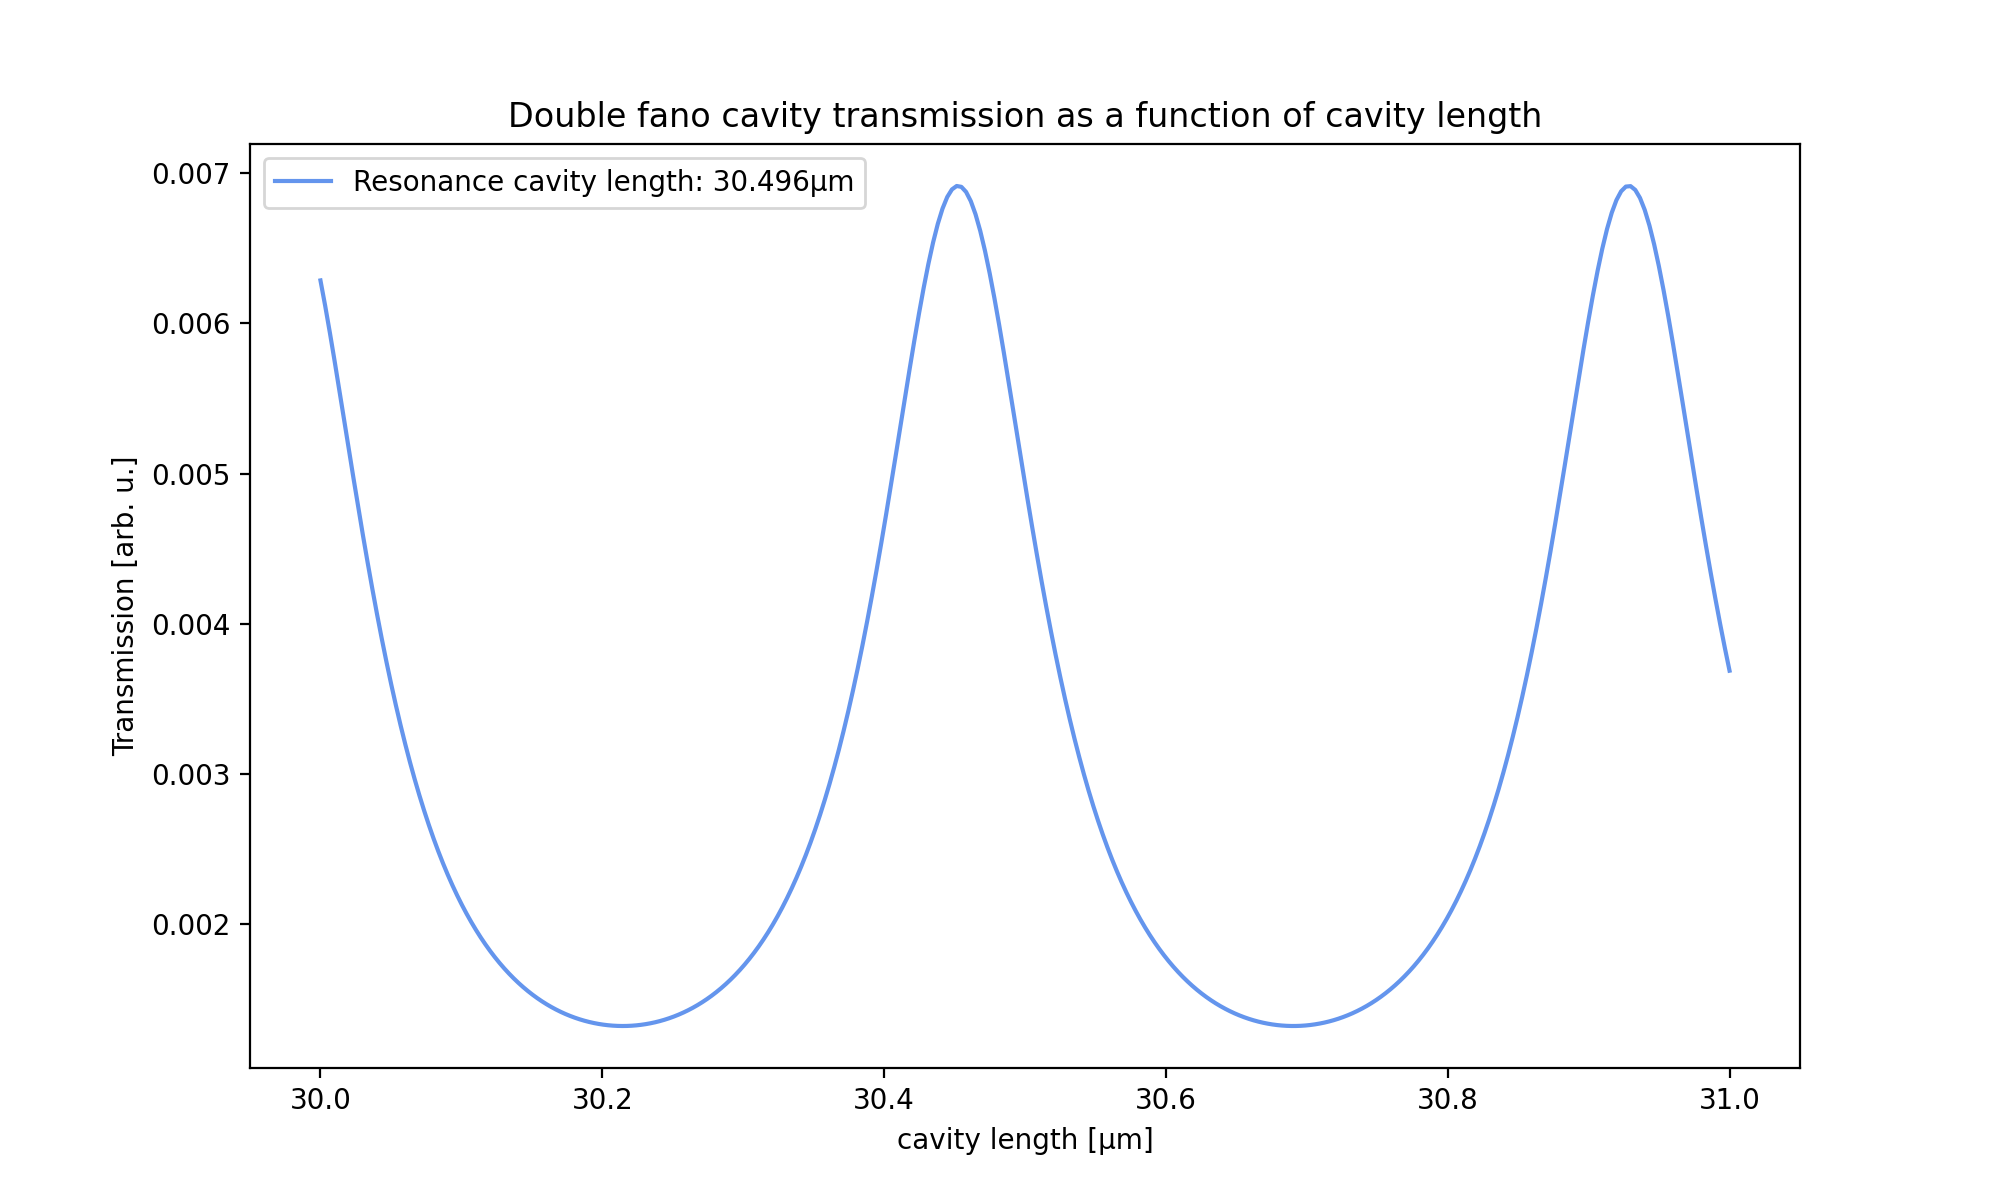
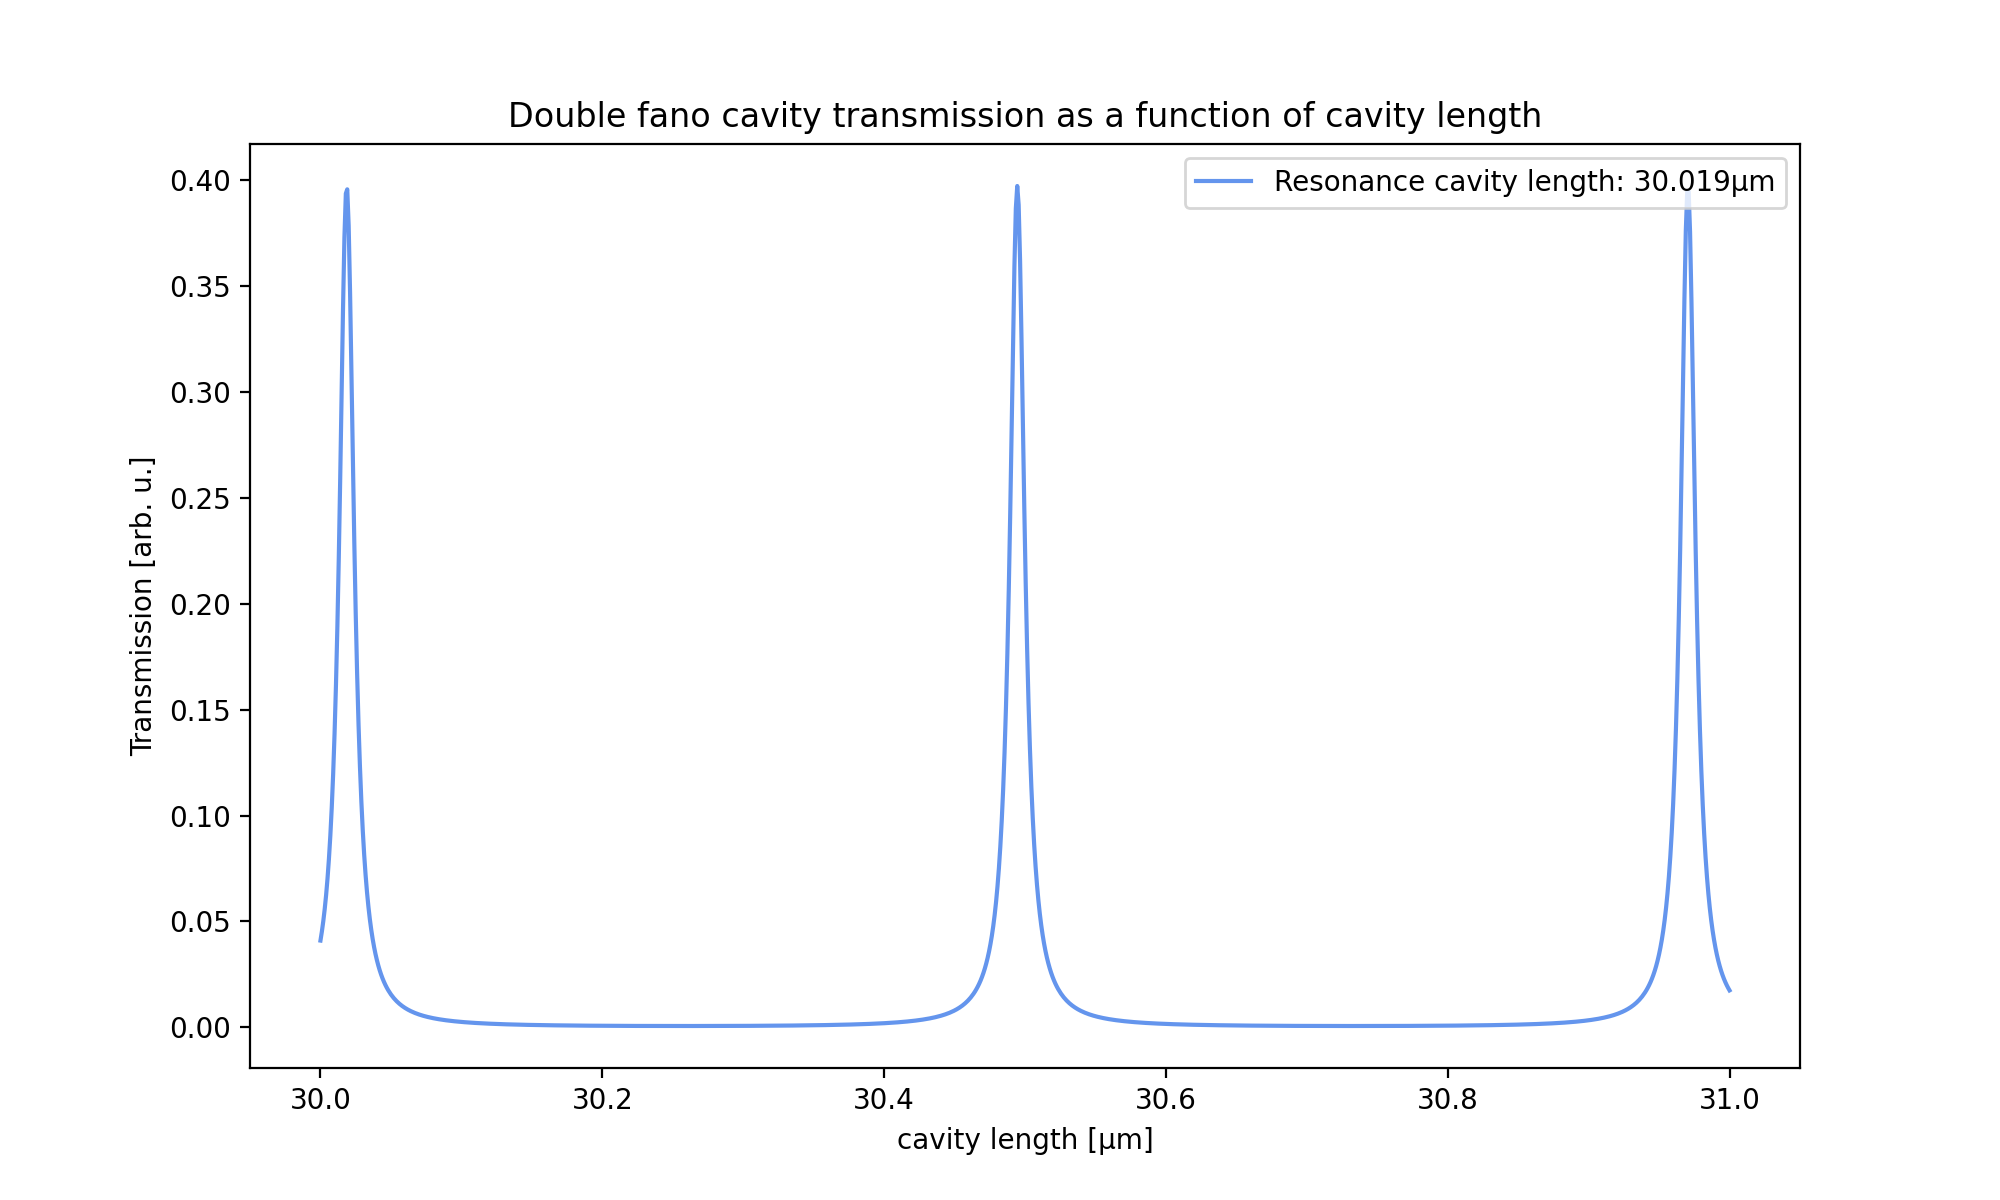
-

diff --git a/fano_theory.py b/fano_theory.py
@@ -23,9 +23,9 @@ params2 = M3.lossy_fit([952,952,0.6,1,0.1])
 # α  -> loss factor 
 
 #λs = np.linspace(951, 952.5, 500)
-λs = np.linspace(950.5, 953.5, 500)
+#λs = np.linspace(950.5, 953.5, 500)
 #λs = np.linspace(945, 960, 10000)
-#λs = np.linspace(951.6, 951.9, 200)
+λs = np.linspace(951.1, 952.4, 200)
 
 def model(λ, λ0, λ1, td, γλ, β): 
     k = 2*np.pi / λ
@@ -95,9 +95,9 @@ def theoretical_reflection_values_plot(params: list, λs: np.array):
     plt.legend(loc='upper center', bbox_to_anchor=(0.5, -0.05), fancybox=True, shadow=True, ncol=2)
     plt.show()
 
-def resonant_cavity_length(params: list, λs: np.array):
+def resonant_cavity_length(params: list, λs: np.array, lmin=50):
     reflection_values = theoretical_reflection_values(params, losses=True)[1]
-    transmission_values = model(λs, *params)
+    transmission_values = np.sqrt(model(λs, *params))
 
     reflection_values = [complex(r) for r in reflection_values]
     transmission_values = [complex(t) for t in transmission_values]
@@ -112,11 +112,10 @@ def resonant_cavity_length(params: list, λs: np.array):
     tm = np.sqrt(0.08)
     rm = np.sqrt(0.92)
 
-    lmin = 100
-    ls = np.linspace(lmin,lmin+1,100000)*1e3
+    ls = list(np.linspace(lmin,lmin+1,100000)*1e3)
 
     for l in ls:
-        λ = params[0]
+        λ = λs[idx]
         t = np.abs(tg*tm*np.exp(1j*(2*np.pi/λ)*l)/(1-rm*rg*np.exp(2j*(2*np.pi/λ)*l)))**2
         Ts.append(t)
 
@@ -125,14 +124,14 @@ def resonant_cavity_length(params: list, λs: np.array):
     for idx in peak_indices[0]:
         lengths.append(ls[idx])
 
-    if np.abs(Ts[ls.index(lengths[0])] - Ts[ls.index(lengths[1])]) > 1e6:
+    if np.abs(Ts[ls.index(lengths[0])] - Ts[ls.index(lengths[1])]) > 1e10:
         resonance_length = lengths[1]
     else:
         resonance_length = lengths[0]
 
     return resonance_length 
 
-def double_cavity_length(params1: list, params2: list, λs: np.array):
+def double_cavity_length(params1: list, params2: list, λs: np.array, lmin=50):
     r1 = theoretical_reflection_values(params1, losses=True)[1]
     r2 = theoretical_reflection_values(params2, losses=True)[1]
     t1 = np.sqrt(model(λs, *params1))
@@ -149,7 +148,6 @@ def double_cavity_length(params1: list, params2: list, λs: np.array):
     lengths = []
     Ts = []
 
-    lmin = 10
     ls = list(np.linspace(lmin,lmin+1,100000)*1e3)
 
     for l in ls:
@@ -162,21 +160,30 @@ def double_cavity_length(params1: list, params2: list, λs: np.array):
     for idx in peak_indices[0]:
         lengths.append(ls[idx])
 
-    if np.abs(Ts[ls.index(lengths[0])] - Ts[ls.index(lengths[1])]) > 1e6:
+    if np.abs(Ts[ls.index(lengths[0])] - Ts[ls.index(lengths[1])]) > 1e10:
         resonance_length = lengths[1]
     else:
         resonance_length = lengths[0]
 
     return resonance_length 
 
-def single_fano_length_scan(params: list, ls: np.array):
-    λ = np.array([params[0]])
+def single_fano_length_scan(params: list, ls: np.array, λs: np.array):
+    ts = [complex(t) for t in np.array(np.sqrt(model(λs, *params)))]
+    rs = [complex(r) for r in theoretical_reflection_values(params, losses=True)[1]]
+
+    idx = np.argmin(ts)
+    rg = rs[idx]
+    tg = ts[idx]
+    rm = np.sqrt(0.92)
+    tm = np.sqrt(0.08)
+
+    λ = np.array([λs[idx]])
     Ts = []
     for l in ls:
-        T = fano_cavity_transmission(params,l,λ)[0]
+        T = np.abs(tg*tm*np.exp(1j*(2*np.pi/λ)*l)/(1-rg*rm*np.exp(2j*(2*np.pi/λ)*l)))**2
         Ts.append(T)
 
-    resonance_length = resonant_cavity_length(params, λ)
+    resonance_length = resonant_cavity_length(params, λ, lmin=ls[0]*1e-3)
 
     plt.figure(figsize=(10,6))
     plt.title("Fano cavity transmission as a function of cavity length")
@@ -186,21 +193,31 @@ def single_fano_length_scan(params: list, ls: np.array):
     plt.legend(["Resonance cavity length: %sμm" % str(round(resonance_length*1e-3,3))])
     plt.show()
 
-def double_fano_length_scan(params1: list, params2: list, ls: np.array):
-    λ = np.array([params1[0]])
+def double_fano_length_scan(params1: list, params2: list, ls: np.array, λs: np.array):
+    t1 = [complex(t) for t in np.array(np.sqrt(model(λs, *params1)))]
+    t2 = [complex(t) for t in np.array(np.sqrt(model(λs, *params2)))]
+    r1 = [complex(r) for r in theoretical_reflection_values(params1, losses=True)[1]]
+    r2 = [complex(r) for r in theoretical_reflection_values(params2, losses=True)[1]]
+
+    idx = np.argmin(t1)
+
+    rg1 = r1[idx]; rg2 = r2[idx]
+    tg1 = t1[idx]; tg2 = t2[idx]
+
+    λ = np.array([λs[idx]])
     Ts = []
     for l in ls:
-        T = dual_fano_transmission(params1, params2, l, λ)
+        T = np.abs(tg1*tg2*np.exp(1j*(2*np.pi/λ)*l)/(1-rg1*rg2*np.exp(2j*(2*np.pi/λ)*l)))**2
         Ts.append(T)
     
-    resonance_length = double_cavity_length(params1, params2, λ)
+    resonance_length = double_cavity_length(params1, params2, λs, lmin=ls[0]*1e-3)*1e-3
 
     plt.figure(figsize=(10,6))
     plt.plot(ls*1e-3, Ts, "cornflowerblue")
     plt.title("Double fano cavity transmission as a function of cavity length")
     plt.xlabel("cavity length [μm]")
     plt.ylabel("Transmission [arb. u.]")
-    plt.legend(["Resonance cavity length: %sμm" % str(round(resonance_length*1e-3,3))]) 
+    plt.legend(["Resonance cavity length: %sμm" % str(round(resonance_length,3))]) 
     plt.show()
  
 def fano_cavity_transmission(params: list, length: np.array, λs: np.array, intracavity=False, losses=True):
@@ -290,24 +307,25 @@ def dual_fano_transmission_plot(params1: list, params2: list, length: float, λs
     ax.legend()
     plt.show()
 
-def detuning_plot(Δs: list, params: list, λs: np.array, intracavity=False, losses=True): ## plots dual fano cavity transmission for different values for the detuning
+def detuning_plot(Δs: list, params: list, λs: np.array, intracavity=False, losses=True, lmin=50): ## plots dual fano cavity transmission for different values for the detuning
     plt.figure(figsize=(10,6))
-    length = double_cavity_length(params, params, λs)
+    #length = double_cavity_length(params, params, λs, lmin=lmin)
     linestyles = ["-.", "--", "-", "--", "-."]
     colors = ["skyblue","royalblue","forestgreen", "firebrick", "lightcoral"]
     for Δ, paint, style in zip(Δs,colors,linestyles):
         params2 = np.copy(params)
         params2[0] += Δ
         params2[1] += Δ
-        #length = (double_cavity_length(params, params2, λs) + double_cavity_length(params2, params, λs))/2
+        length = (double_cavity_length(params, params2, λs, lmin=lmin) + double_cavity_length(params2, params, λs, lmin=lmin))/2
         Ts =  dual_fano_transmission(params, params2, length, λs, intracavity=intracavity, losses=losses)
         if np.abs(Δ) < 1e-6:
-            linesize = 3
+            linesize = 2
         else:
             linesize = 2
         plt.plot(λs, Ts, color=paint, linestyle=style, linewidth=linesize, label="Δ=%snm" %(round(Δ,2)))
 
-    plt.title("Double fano transmission for varying detuning Δ (cavity length %s)" %(r"$\rightarrow l_{g,1} \approx 100 \mu m$"))
+    #plt.title("Double fano transmission for varying detuning Δ (cavity length %s)" %(r"$\rightarrow l_{g,1} \approx 100 \mu m$"))
+    plt.title("Double fano transmission for varying detuning Δ (cavity length %s)" %(r"$\rightarrow (l_{g,1} + l_{g,2})/2 \approx 10 \mu m$"))
     plt.xlabel("Wavelength [nm]")
     plt.ylabel("Transmission [arb.u.]")
     plt.legend()
@@ -319,15 +337,15 @@ def cavity_length_plot(ls: list, params1: list, params2: list, λs: np.array, in
     colors = ["skyblue","royalblue","forestgreen", "firebrick", "lightcoral"]
     for l, paint, style in zip(ls, colors, linestyles):
         Ts = dual_fano_transmission(params1, params2, l, λs, intracavity=intracavity, losses=losses)
-        plt.plot(λs, Ts, color=paint, linestyle=style, linewidth=2, label="cavity length: %sμm" % str(round(l*1e-3,2)))
-    plt.title("Double fano transmission for different cavity lengths %s (Δ = 0.47nm)" %(r"$l_{g,1} \rightarrow l_{g,2}$")) 
+        plt.plot(λs, Ts, color=paint, linestyle=style, linewidth=2, label="cavity length: %sμm" % str(round(l*1e-3,4)))
+    plt.title("Double fano transmission for different cavity lengths %s (Δ = 0.1nm)" %(r"$l_{g,1} \rightarrow l_{g,2}$")) 
     plt.xlabel("Wavelength [nm]")
     plt.ylabel("Normalized transmission [arb.u.]")
     plt.legend(bbox_to_anchor=(1.04, 1), loc="upper left")
     plt.subplots_adjust(right=0.70)
     plt.show() 
 
-def l_vs_λ_cmaps(params1: list, params2: list, λs: np.array, intracavity=False, losses=True): 
+def l_vs_λ_cmaps(params1: list, params2: list, λs: np.array, intracavity=False, losses=True, lmin=50): 
     params2[1] += 0.40
     params2[0] += 0.40
     Δs = 0.08
@@ -341,9 +359,9 @@ def l_vs_λ_cmaps(params1: list, params2: list, λs: np.array, intracavity=False
             params2[0] -= Δs
             Δ_label -= Δs
             if np.abs(Δ_label) < 1e-6:
-                ls = np.linspace(double_cavity_length(params1, params2, λs)-0.1, double_cavity_length(params2, params1, λs)+0.1, 20)
+                ls = np.linspace(double_cavity_length(params1, params2, λs, lmin=lmin)-0.1, double_cavity_length(params2, params1, λs, lmin=lmin)+0.1, 20)
             else:
-                ls = np.linspace(double_cavity_length(params1, params2, λs), double_cavity_length(params2, params1, λs), 20)
+                ls = np.linspace(double_cavity_length(params1, params2, λs, lmin=lmin), double_cavity_length(params2, params1, λs, lmin=lmin), 20)
             Ts = []
             for l in ls:
                 T = dual_fano_transmission(params1, params2, l, λs, intracavity=intracavity, losses=losses)
@@ -378,11 +396,11 @@ def l_vs_λ_cmaps(params1: list, params2: list, λs: np.array, intracavity=False
     fig.text(0.08, 0.5, 'Cavity length [μm]', ha='center', va='center', fontsize=10, rotation="vertical")
     plt.show()
 
-def double_fano_cmap(params1: list, params2: list, λs: np.array):
+def double_fano_cmap(params1: list, params2: list, λs: np.array, lmin=50):
 
     plt.figure(figsize=(10,6))
 
-    ls = np.linspace(double_cavity_length(params1, params2, λs), double_cavity_length(params2, params1, λs),20)
+    ls = np.linspace(double_cavity_length(params1, params2, λs, lmin=lmin), double_cavity_length(params2, params1, λs, lmin=lmin),20)
     Ts = []
     for l in ls:
         T = dual_fano_transmission(params1, params2, l, λs)
@@ -409,8 +427,8 @@ def double_fano_cmap(params1: list, params2: list, λs: np.array):
     plt.colorbar()
     plt.show()
 
-def line_width_double(params1: list, params2: list, λs: np.array, intracavity=False, losses=True): 
-    length = double_cavity_length(params1, params2, λs)
+def line_width_double(params1: list, params2: list, λs: np.array, intracavity=False, losses=True, lmin=50): 
+    length = double_cavity_length(params1, params2, λs, lmin=lmin)
     Ts =  dual_fano_transmission(params1, params2, length, λs, intracavity=intracavity, losses=losses)
 
     popt, pcov = curve_fit(model, λs, Ts, p0=params1, maxfev=10000)
@@ -426,8 +444,9 @@ def line_width_double(params1: list, params2: list, λs: np.array, intracavity=F
 
     return FWHM*1e3
 
-def line_width_single(params1: list, λs: np.array, intracavity=False, losses=True): 
-    Ts =  fano_cavity_transmission(params1, λs, intracavity=intracavity, losses=losses)
+def line_width_single(params1: list, λs: np.array, intracavity=False, losses=True, lmin=50): 
+    length = resonant_cavity_length(params1, λs, lmin=lmin)
+    Ts =  fano_cavity_transmission(params1, length, λs, intracavity=intracavity, losses=losses)
 
     popt, pcov = curve_fit(model, λs, Ts, p0=params1, maxfev=10000)
 
@@ -442,7 +461,7 @@ def line_width_single(params1: list, λs: np.array, intracavity=False, losses=Tr
     return FWHM
 
 def line_width_comparison(params1: list, params2: list, length: float, intracavity=False, losses=True): 
-    T1 =  fano_cavity_transmission(params1, λs, intracavity=intracavity, losses=losses)
+    T1 =  fano_cavity_transmission(params1, length, λs, intracavity=intracavity, losses=losses)
     T2 = dual_fano_transmission(params1, params2, length, λs, intracavity=intracavity, losses=losses)
 
     popt1, pcov1 = curve_fit(model, λs, T1, p0=params1, maxfev=10000)
@@ -469,27 +488,28 @@ def line_width_comparison(params1: list, params2: list, length: float, intracavi
 
 #Δs = np.linspace(-1.5, 1.5, 5) # low resolution
 #Δs = np.linspace(-0.3, 0.3, 5) # high resolution
-#Δs = np.linspace(0, 0.15, 5)
-#detuning_plot(Δs, params1, λs, intracavity=False, losses=True)
+#Δs = np.linspace(0, 1, 5)
+#detuning_plot(Δs, params1, λs, intracavity=False, losses=True, lmin=5)
 
 #### Heat maps of cavity transmission as a function of wavelength and cavity length ####
 
-#l_vs_λ_cmaps(params1, params2, λs, intracavity=True, losses=True)
+#l_vs_λ_cmaps(params1, params2, λs, intracavity=False, losses=True, lmin=30)
 #double_fano_cmap(params1, params2, λs)
 
 
 #### Double/single fano cavity transmission plots ####
 
-#length = resonant_cavity_length(params1, λs)
+#length = resonant_cavity_length(params1, λs, lmin=10)
 #fano_cavity_transmission_plot(params1, length, λs, intracavity=False, losses=True)
 
-#length = double_cavity_length(params1, params2, λs)
+#length = double_cavity_length(params1, params2, λs, lmin=30)
 #dual_fano_transmission_plot(params1, params2, length, λs, intracavity=False, losses=True, total_grating_trans=False, zoom=False)
 
-#Δ = 0.47
+#Δ = 0.1
+#lmin=30
 #params2[0] += Δ
 #params2[1] += Δ
-#ls = np.linspace(double_cavity_length(params1,params2,λs), double_cavity_length(params2,params1,λs), 5)
+#ls = np.linspace(double_cavity_length(params1,params2,λs,lmin=lmin), double_cavity_length(params2,params1,λs,lmin=lmin), 5)
 #cavity_length_plot(ls, params1, params2, λs, intracavity=False, losses=True)
 
 
@@ -504,9 +524,10 @@ def line_width_comparison(params1: list, params2: list, length: float, intracavi
 
 #### length scan of the single and double fano cavities
 
-#ls = np.linspace(10e3, 11e3, 300)
-#double_fano_length_scan(params1, params2, ls)
-#single_fano_length_scan(params1, ls)
+#l=30
+#ls = np.linspace(l*1e3, (l+1)*1e3, 1000)
+#double_fano_length_scan(params1, params2, ls, λs)
+#single_fano_length_scan(params1, ls, λs)
 
 
 #### plotting the calculated reflection/transmission values ####
